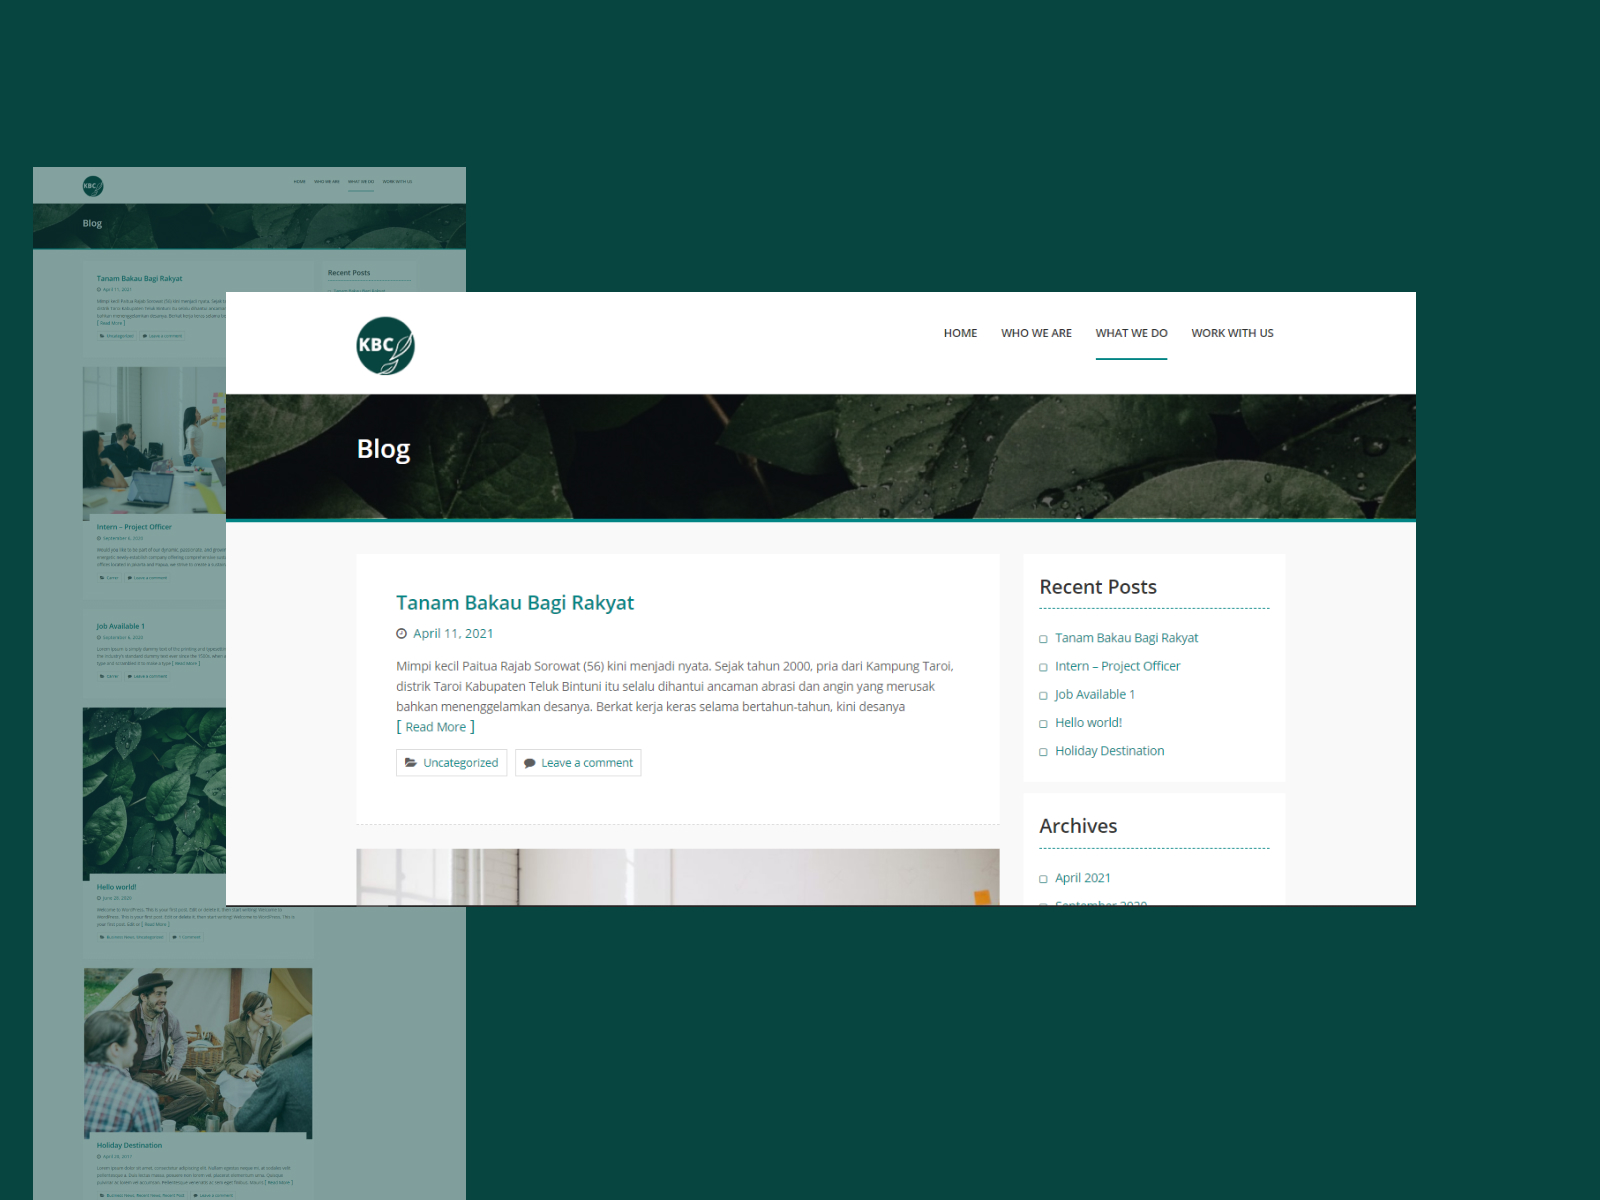
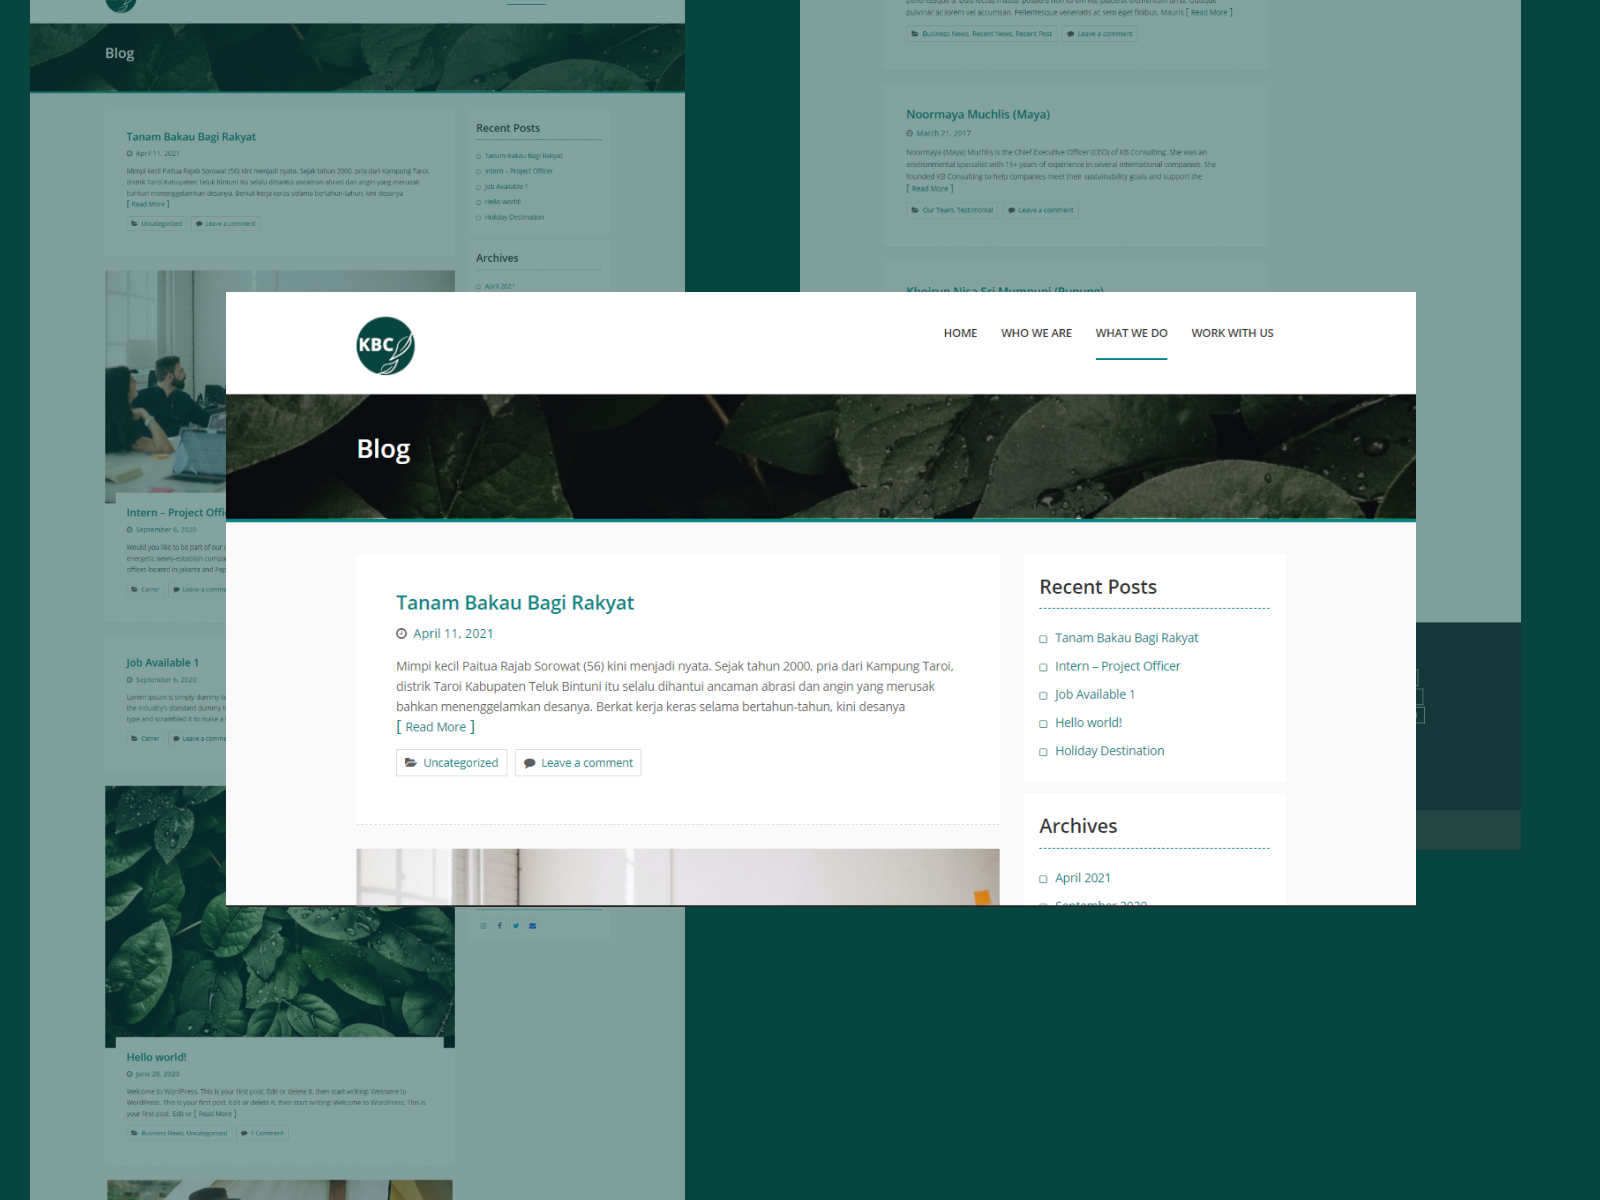
update footer and add portofolio

diff --git a/resources/views/web/portofolio/index.blade.php b/resources/views/web/portofolio/index.blade.php
@@ -24,15 +24,15 @@
                 </div>
             </div>
             <div class="col-lg-6">
-                <div class="position-relative mb-5 mb-lg-0">
-                    <img class="img-fluid rounded-3 mb-3" src="{{ asset('web-assets/img/websekolah.jpeg')}}" alt="..." />
-                    <a class="h3 fw-bolder text-decoration-none link-dark stretched-link" href="#!">Website Sekolah SMK Darul Muqomah</a>
+                <div class="position-relative">
+                    <img class="img-fluid rounded-3 mb-3" src="{{ asset('web-assets/img/SALFOOD.jpg')}}" alt="..." />
+                    <a class="h3 fw-bolder text-decoration-none link-dark stretched-link" href="#!">Landing page Website Salfood</a>
                 </div>
             </div>
             <div class="col-lg-6">
-                <div class="position-relative">
-                    <img class="img-fluid rounded-3 mb-3" src="{{ asset('web-assets/img/sd.jpeg')}}" alt="..." />
-                    <a class="h3 fw-bolder text-decoration-none link-dark stretched-link" href="#!">Project name</a>
+                <div class="position-relative mb-5 mb-lg-0">
+                    <img class="img-fluid rounded-3 mb-3" src="{{ asset('web-assets/img/websekolah.jpeg')}}" alt="..." />
+                    <a class="h3 fw-bolder text-decoration-none link-dark stretched-link" href="#!">Website Sekolah SMK Darul Muqomah</a>
                 </div>
             </div>
         </div>

diff --git a/resources/views/web/layouts/partials/footer.blade.php b/resources/views/web/layouts/partials/footer.blade.php
@@ -18,9 +18,9 @@
                         <div class="col-xl-2 col-md-4 col-sm-4 col-12">
                             <h6 class="mb-3 mb-lg-4 bold-text mt-sm-0 mt-5"><b>Contact</b></h6>
                             <ul class="list-unstyled">
-                                <li>Instagram</li>
-                                <li>Linkedin</li>
-                                <li>Whatsapp</li>
+                                <li><i class="fab fa-instagram"></i> @degovan.it</li>
+                                <li><i class="fab fa-linkedin"></i> degovan</li>
+                                <li><i class="bi bi-whatsapp"></i> +685853656272 </li>
                             </ul>
                         </div>
                     </div>
